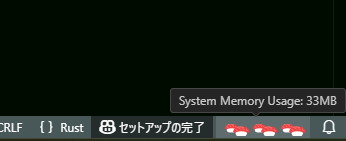
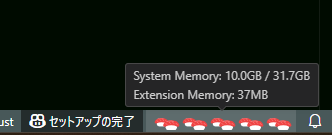
feat: display system memory usage and add web fallback (#1)

Changed region(s): [[0.0, 0.4444, 1.0, 0.9778]]

diff --git a/src/statusbar/indicators/memory-indicator.ts b/src/statusbar/indicators/memory-indicator.ts
@@ -1,7 +1,7 @@
+import * as os from "node:os";
 import * as vscode from "vscode";
 
 const MAX_SUSHI = 15;
-const ADJUSTED_MB_PER_SUSHI = 10;
 
 export interface MemoryIndicator {
 	start: (statusBarItem: vscode.StatusBarItem) => void;
@@ -13,9 +13,11 @@ export interface MemoryIndicator {
 export const useMemoryIndicator = (): MemoryIndicator => {
 	let intervalId: NodeJS.Timeout | undefined;
 
+	const isWeb = vscode.env.uiKind === vscode.UIKind.Web;
+
 	const start = (statusBarItem: vscode.StatusBarItem): void => {
 		update(statusBarItem);
-		intervalId = setInterval(() => update(statusBarItem), 2000);
+		if (!isWeb) intervalId = setInterval(() => update(statusBarItem), 2000);
 	};
 
 	const stop = (): void => {
@@ -32,24 +34,56 @@ export const useMemoryIndicator = (): MemoryIndicator => {
 			return;
 		}
 
-		const usedMb = Math.round(process.memoryUsage().heapUsed / (1024 * 1024));
-		let sushiCount = Math.floor(usedMb / ADJUSTED_MB_PER_SUSHI);
+		if (isWeb) {
+			statusBarItem.text = "$(sushi-maguro)";
+			statusBarItem.tooltip = "System Memory: N/A (Web Environment)";
+			statusBarItem.show();
+			return;
+		}
+
+		const extUsedMb = Math.round(process.memoryUsage().heapUsed / (1024 * 1024));
+		const totalSysMem = os.totalmem();
+		const freeSysMem = os.freemem();
+		const usedSysMem = totalSysMem - freeSysMem;
+
+		const totalSysGb = (totalSysMem / 1024 ** 3).toFixed(1);
+		const usedSysGb = (usedSysMem / 1024 ** 3).toFixed(1);
+
+		const memoryUsageRatio = usedSysMem / totalSysMem;
+		let sushiCount = Math.ceil(memoryUsageRatio * MAX_SUSHI);
 		sushiCount = Math.max(1, Math.min(sushiCount, MAX_SUSHI));
 
 		statusBarItem.text = "$(sushi-maguro)".repeat(sushiCount);
-		statusBarItem.tooltip = `System Memory Usage: ${usedMb}MB`;
+		statusBarItem.tooltip = `System Memory: ${usedSysGb}GB / ${totalSysGb}GB\nExtension Memory: ${extUsedMb}MB`;
 		statusBarItem.show();
 	};
 
 	const showDetails = (): void => {
+		if (isWeb) {
+			vscode.window
+				.showInformationMessage(
+					"$(sushi-maguro) Memory usage is unavailable on the web.",
+					"Open Setting",
+				)
+				.then((selection) => {
+					selection === "Open Setting" &&
+						vscode.commands.executeCommand("workbench.action.openSettings", "sushiTheme");
+				});
+			return;
+		}
+
 		const memoryData = process.memoryUsage();
-		const usedMemory = Math.round(memoryData.heapUsed / (1024 * 1024));
-		const totalMemory = Math.round(memoryData.heapTotal / (1024 * 1024));
-		const rssMemory = Math.round(memoryData.rss / (1024 * 1024));
+		const extUsedMemory = Math.round(memoryData.heapUsed / (1024 * 1024));
+		const extRssMemory = Math.round(memoryData.rss / (1024 * 1024));
+
+		const totalSysMem = os.totalmem();
+		const freeSysMem = os.freemem();
+		const usedSysGb = ((totalSysMem - freeSysMem) / 1024 ** 3).toFixed(1);
+		const totalSysGb = (totalSysMem / 1024 ** 3).toFixed(1);
 
 		vscode.window
 			.showInformationMessage(
-				`🍣 System Memory: Used: ${usedMemory}MB / Total: ${totalMemory}MB (RSS: ${rssMemory}MB)`,
+				`$🍣 System: ${usedSysGb}GB / ${totalSysGb}GB | Ext: ${extUsedMemory}MB (RSS: ${extRssMemory}MB)`,
 				"Open Setting",
 			)
 			.then((selection) => {

diff --git a/README.md b/README.md
@@ -19,10 +19,11 @@
       <img width="390" height="94" alt="Image" src="./images/status_bar.png" />
     </td>
     <td style="width: 45%; padding: 20px; vertical-align: middle;">
-      <h3>🍵 SUSHI Memory Indicator</h3>
-      <p>Check your PC memory usage easily right in your status bar.</p>
-      <p>Low memory = Empty plate.<br>
-      High memory = Full of Sushi!</p>
+      <h3>🍣 SUSHI Memory Indicator</h3>
+      <p>Check your system memory usage easily right in your status bar.</p>
+      <p>Low memory = A few pieces of sushi.<br>
+      High memory = A full plate of sushi!</p>
+      <p style="font-size: 0.9em; color: #888;">Hover to see detailed System & Extension memory stats.</p>
     </td>
   </tr>
   

diff --git a/CHANGELOG.md b/CHANGELOG.md
@@ -6,3 +6,9 @@ Check [Keep a Changelog](http://keepachangelog.com/) for recommendations on how 
 
 ## [1.0.0] - 2026-04-29
 - Initial release
+
+## [1.0.1] - 2026-04-29
+- Add README Images
+
+## [1.1.1] - 2026-04-29
+- Display system memory usage and add web fallback
